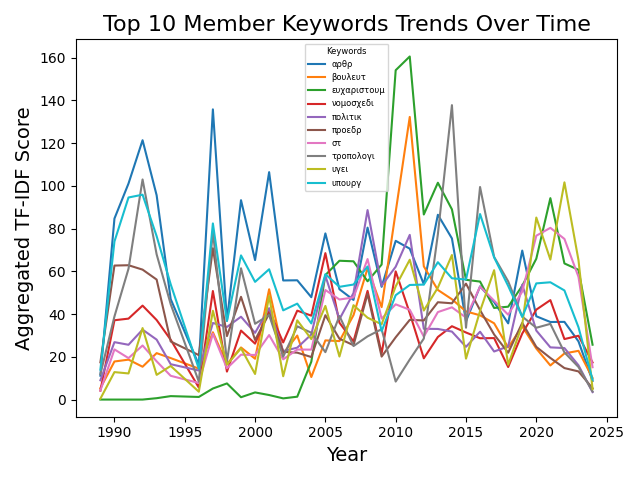
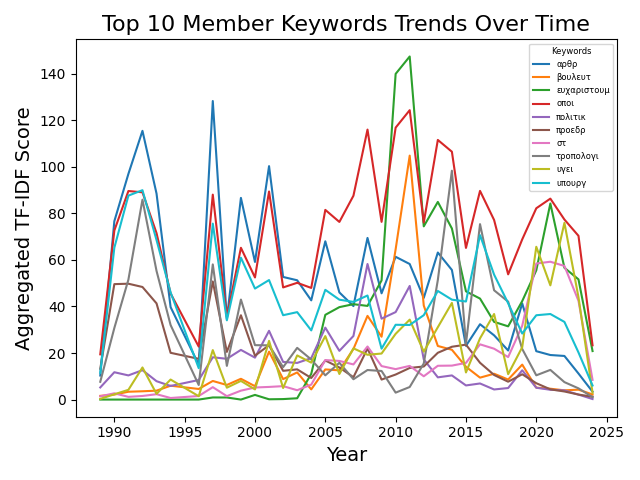
meros2 progress

diff --git a/keywords_member_name.py b/keywords_member_name.py
@@ -24,7 +24,7 @@ def load_tfidf_data():
 def get_top_keywords(tfidf_matrix, feature_names, top_n=10):
     COMMON_KEYWORDS = {
     "αυτ", "εινα", "της", "αυτ", "απο", "εν", "τους", "κυρι"
-    , "οτ", "δε", "απο","αλλ","εχ","λογ","μι","οποι"
+    , "οτ", "δε", "απο","αλλ","εχ","λογ","μι"
     # Add more common keywords you want to exclude
     }
 
@@ -92,31 +92,53 @@ def analyze_keywords(speech_data, extracted_keywords):
 
 
 # Track Keyword Changes Over Time
-def track_member_keyword_trends(df):
+def track_member_keyword_trends(df, member_keywords):
     df["sitting_year"] = pd.to_datetime(df["sitting_date"]).dt.year
 
     # Explode keywords for time-based analysis
     exploded = df.explode("keywords")
     exploded["keyword"] = exploded["keywords"].apply(lambda x: x[0])  # Extract word
-    exploded["score"] = exploded["keywords"].apply(lambda x: x[1])  # Extract score
+    exploded["score"] = exploded["keywords"].apply(lambda x: x[1])    # Extract score
+
+    # Merge with top keywords to filter
+    exploded = exploded.merge(
+        member_keywords.apply(lambda x: [k for k, _ in x]).rename("top_keywords"),
+        left_on="member_name",
+        right_index=True
+    )
+
+    # Keep only rows where keyword is in top_keywords
+    exploded = exploded[exploded.apply(lambda row: row["keyword"] in row["top_keywords"], axis=1)]
 
     # Group by member, year, and keyword to sum scores
     member_keyword_trends = exploded.groupby(["member_name", "sitting_year", "keyword"])["score"].sum().reset_index()
 
     return member_keyword_trends
 
-def track_party_keyword_trends(df):
+
+def track_party_keyword_trends(df, party_keywords):
     df["sitting_year"] = pd.to_datetime(df["sitting_date"]).dt.year
 
     # Explode keywords for time-based analysis
     exploded = df.explode("keywords")
     exploded["keyword"] = exploded["keywords"].apply(lambda x: x[0])  # Extract word
-    exploded["score"] = exploded["keywords"].apply(lambda x: x[1])  # Extract score
+    exploded["score"] = exploded["keywords"].apply(lambda x: x[1])    # Extract score
+
+    # Merge with top keywords to filter
+    exploded = exploded.merge(
+        party_keywords.apply(lambda x: [k for k, _ in x]).rename("top_keywords"),
+        left_on="political_party",
+        right_index=True
+    )
+
+    # Keep only rows where keyword is in top_keywords
+    exploded = exploded[exploded.apply(lambda row: row["keyword"] in row["top_keywords"], axis=1)]
 
     # Group by party, year, and keyword to sum scores
     party_keyword_trends = exploded.groupby(["political_party", "sitting_year", "keyword"])["score"].sum().reset_index()
 
     return party_keyword_trends
+
 
 # Visualize Keyword Trends
 def visualize_keyword_trends_trends(df_trends, group_by, title, plot_file):
@@ -186,12 +208,8 @@ def main():
         speech_data,
         columns=["id", "member_name", "political_party", "sitting_date"]
     )
+    print(feature_names)
 
-    # Align the speech data with the speech IDs
-    speech_data_df = speech_data_df[speech_data_df["id"].isin(speech_ids)]
-
-    # Sort speech_data_df by `id` to ensure it matches the TF-IDF matrix
-    speech_data_df = speech_data_df.set_index("id").loc[speech_ids].reset_index()
 
     # Extract top keywords
     extracted_keywords = get_top_keywords(tfidf_matrix, feature_names)
@@ -201,11 +219,18 @@ def main():
         speech_data_df.values, extracted_keywords
     )
 
+    print("Number of keywords per member:")
+    print(member_keywords.apply(len).head())
+
+    print("Number of keywords per party:")
+    print(party_keywords.apply(len).head())
+
+
     # 1. Track keyword trends over time for members
-    member_keyword_trends = track_member_keyword_trends(df)
+    member_keyword_trends = track_member_keyword_trends(df, member_keywords)
 
     # 2. Track keyword trends over time for parties
-    party_keyword_trends = track_party_keyword_trends(df)
+    party_keyword_trends = track_party_keyword_trends(df, party_keywords)
 
     # 3. Visualize Member Keyword Trends
     member_plot_file = "output/member_keyword_trends_over_time.png"
